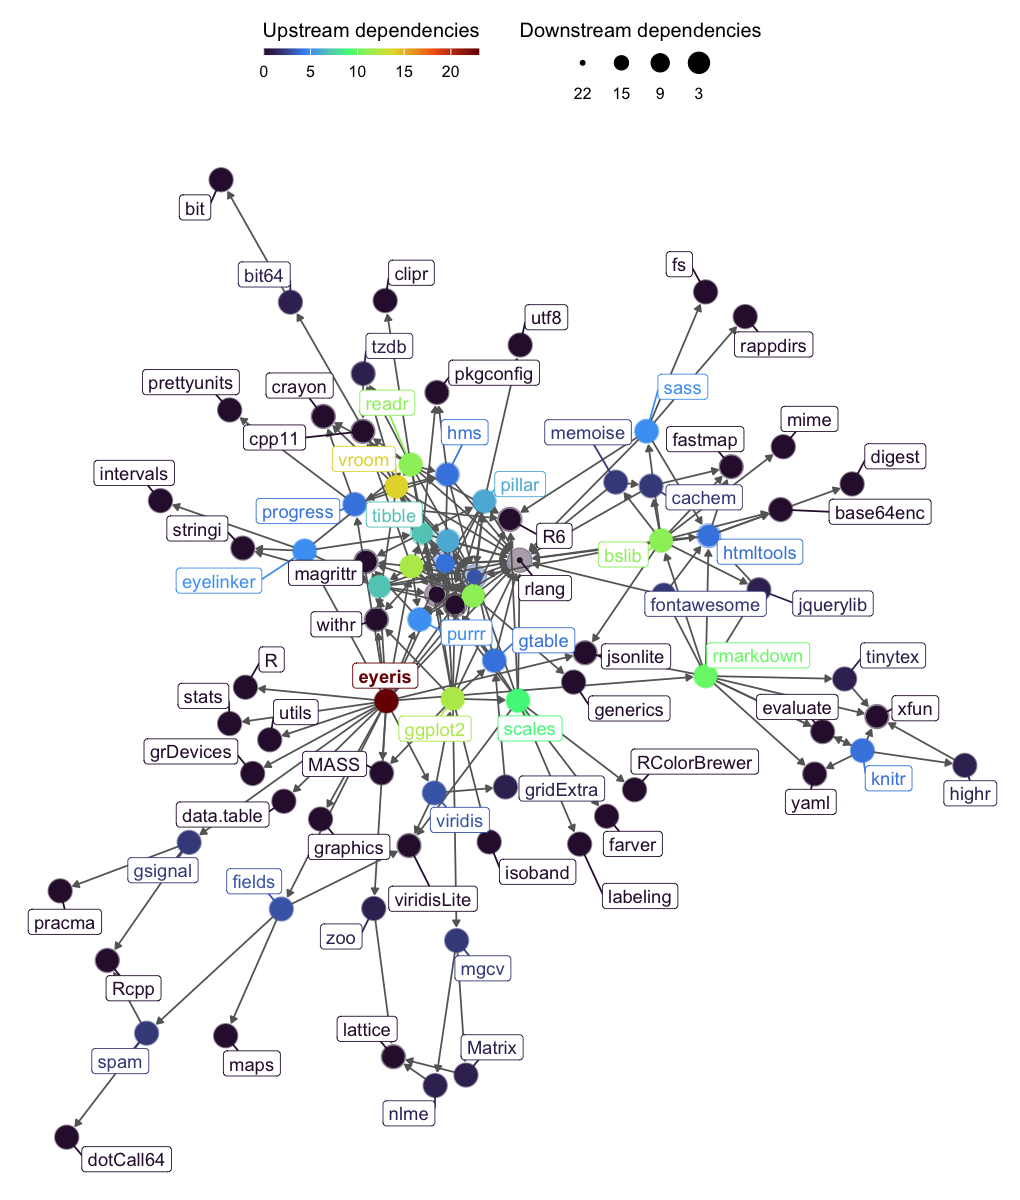
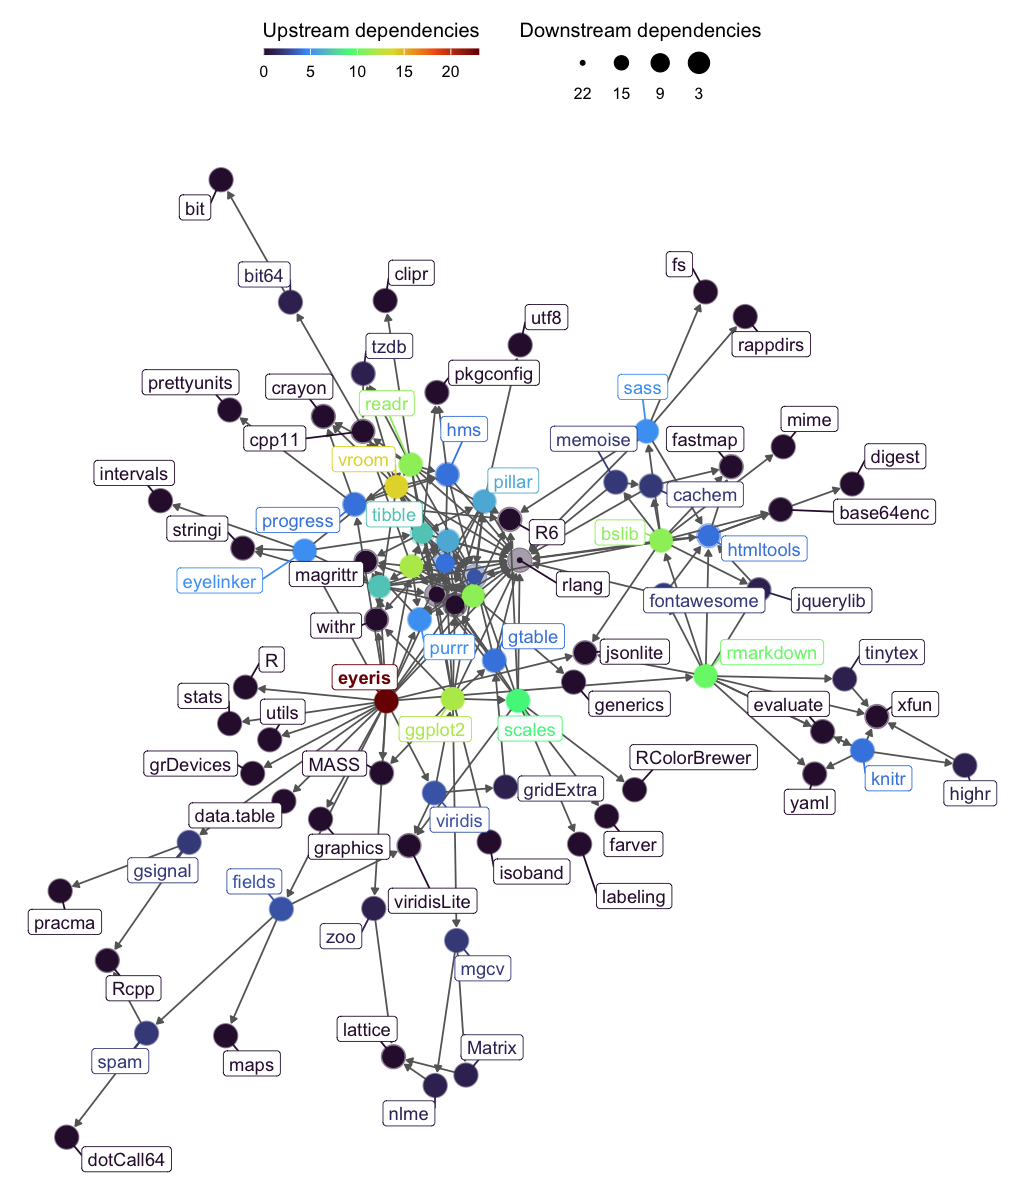
CHORE: bump dev version and update README badges
Incremented package version to 2.1.1.9000 and updated the date in DESCRIPTION. Added a dev branch status badge to README files and updated the version shown in the usage example. Updated README figure.

diff --git a/README.md b/README.md
@@ -5,6 +5,8 @@
 
 <!-- badges: start -->
 
+[![dev branch
+status](https://raw.githubusercontent.com/shawntz/eyeris/refs/heads/badges/dev-branch-version.svg)](https://github.com/shawntz/eyeris/tree/dev)
 [![CRAN
 status](https://www.r-pkg.org/badges/version/eyeris)](https://CRAN.R-project.org/package=eyeris)
 [![downloads](http://cranlogs.r-pkg.org/badges/grand-total/eyeris?color=brightgreen)](https://cran.r-project.org/package=badger)
@@ -184,7 +186,7 @@ set.seed(32)
 
 library(eyeris)
 #> 
-#> eyeris v2.1.1 - Lumpy Space Princess ꒰•ᴗ•｡꒱۶
+#> eyeris v2.1.1.9000 - Lumpy Space Princess ꒰•ᴗ•｡꒱۶
 #> Welcome! Type ?`eyeris` to get started.
 
 demo_data <- eyelink_asc_demo_dataset()
